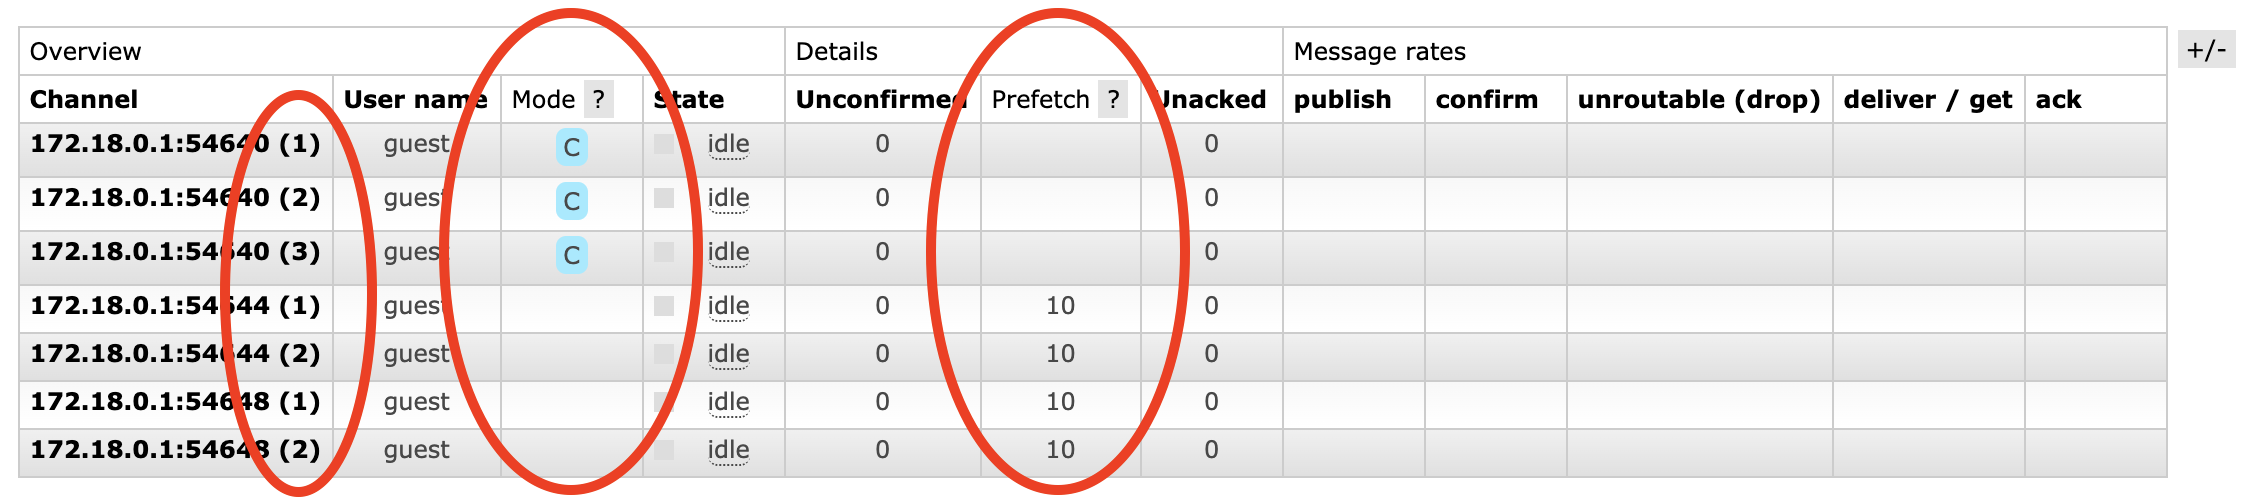
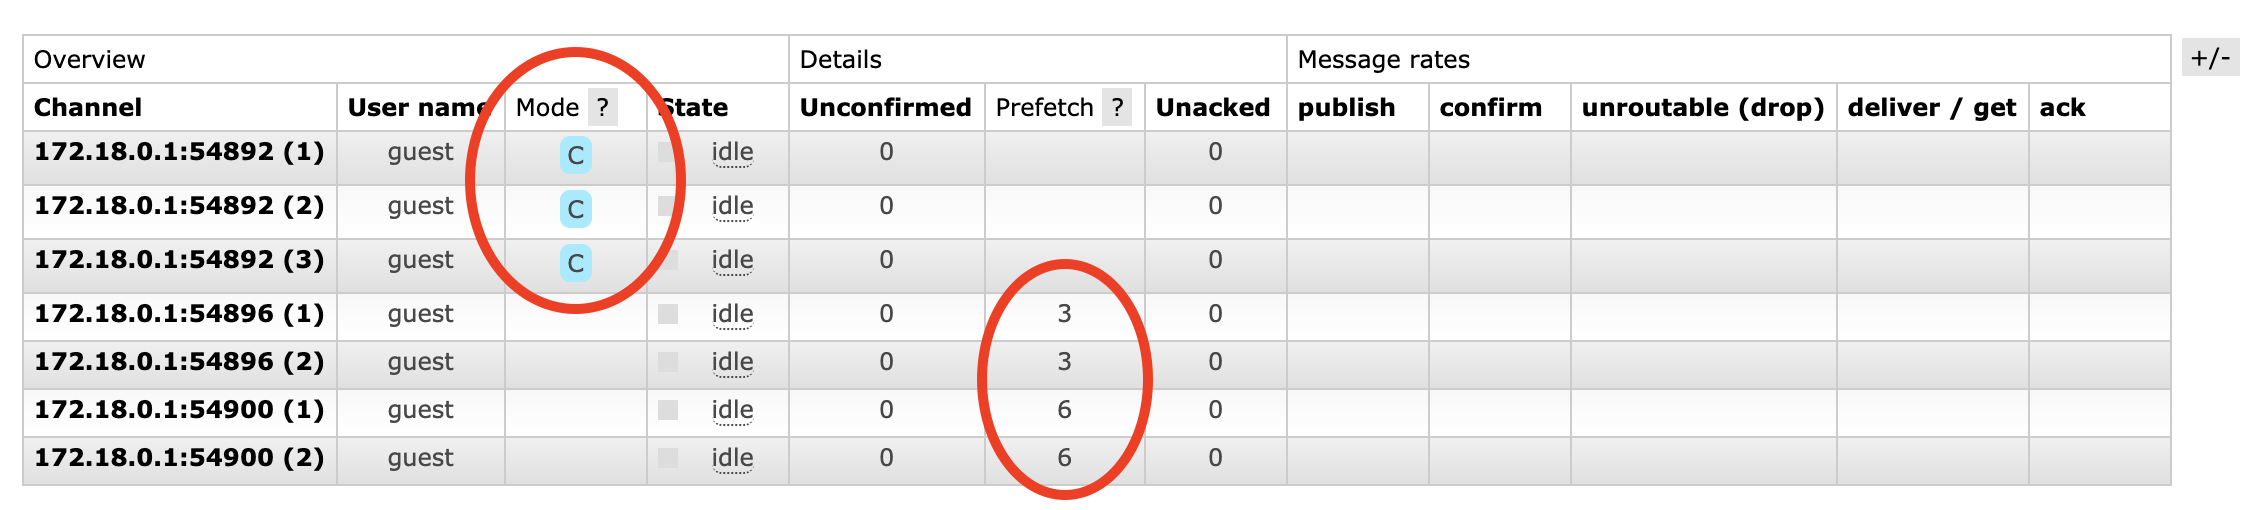
chore(Docs): Update docs

diff --git a/README.md b/README.md
@@ -56,6 +56,8 @@ The following modules are provided;
 | customer    | exchange    | customer/customer.created | queue            | customer.created | \[]       |
 | customer    | exchange    | customer/customer.updated | queue            | customer.updated | \[]       |
 
+ℹ As seen in the RabbitMQ Management dashboard.
+
 ![RabbitMQ Topology](assets/rabbitmq-topology.png)
 
 First, ensure you point to a valid `amqp_url` by adding this into your `config.exs`.
@@ -72,8 +74,15 @@ Let's define our `CustomerProducer` first. We will use this module to publish me
 
 ```elixir
 defmodule RabbitSample.CustomerProducer do
+  @moduledoc """
+  Publishes pre-configured events onto the "customer" exchange.
+  """
+
   use RabbitMQ.Producer, exchange: "customer", worker_count: 3
 
+  @doc """
+  Publishes an event routed via "customer.created".
+  """
   def customer_created(customer_id) when is_binary(customer_id) do
     opts = [
       content_type: "application/json",
@@ -86,6 +95,9 @@ defmodule RabbitSample.CustomerProducer do
     publish(payload, "customer.created", opts)
   end
 
+  @doc """
+  Publishes an event routed via "customer.updated".
+  """
   def customer_updated(updated_customer) when is_map(updated_customer) do
     opts = [
       content_type: "application/json",
@@ -106,7 +118,7 @@ To consume messages off the respective queues, we will define 2 separate consume
 
 ```elixir
 defmodule RabbitSample.CustomerCreatedConsumer do
-  use RabbitMQ.Consumer, queue: "customer/customer.created", worker_count: 2
+  use RabbitMQ.Consumer, queue: "customer/customer.created", worker_count: 2, prefetch_count: 3
 
   require Logger
 
@@ -119,7 +131,7 @@ end
 
 ```elixir
 defmodule RabbitSample.CustomerUpdatedConsumer do
-  use RabbitMQ.Consumer, queue: "customer/customer.updated", worker_count: 2
+  use RabbitMQ.Consumer, queue: "customer/customer.updated", worker_count: 2, prefetch_count: 6
 
   require Logger
 
@@ -164,10 +176,11 @@ The resulting application topology should look like this:
 Upon closer inspection using the RabbitMQ Management dashboard, we see that:
 
 a) each of our modules maintains its dedicated connection; and
+b) each of our modules' workers maintains its dedicated channel under the respective connection.
 
 ![Connections](assets/rabbitmq-connections.png)
 
-b) each of our modules' workers maintains its dedicated channel under the respective connection.
+ℹ Detailed view of how individual workers have set up their channels. Note that the **different prefetch counts** correspond to the configuration we provided in our Consumers, and that the Producer's 3 workers operate in **Confirm mode**.
 
 ![Channels](assets/rabbitmq-channels.png)
 
